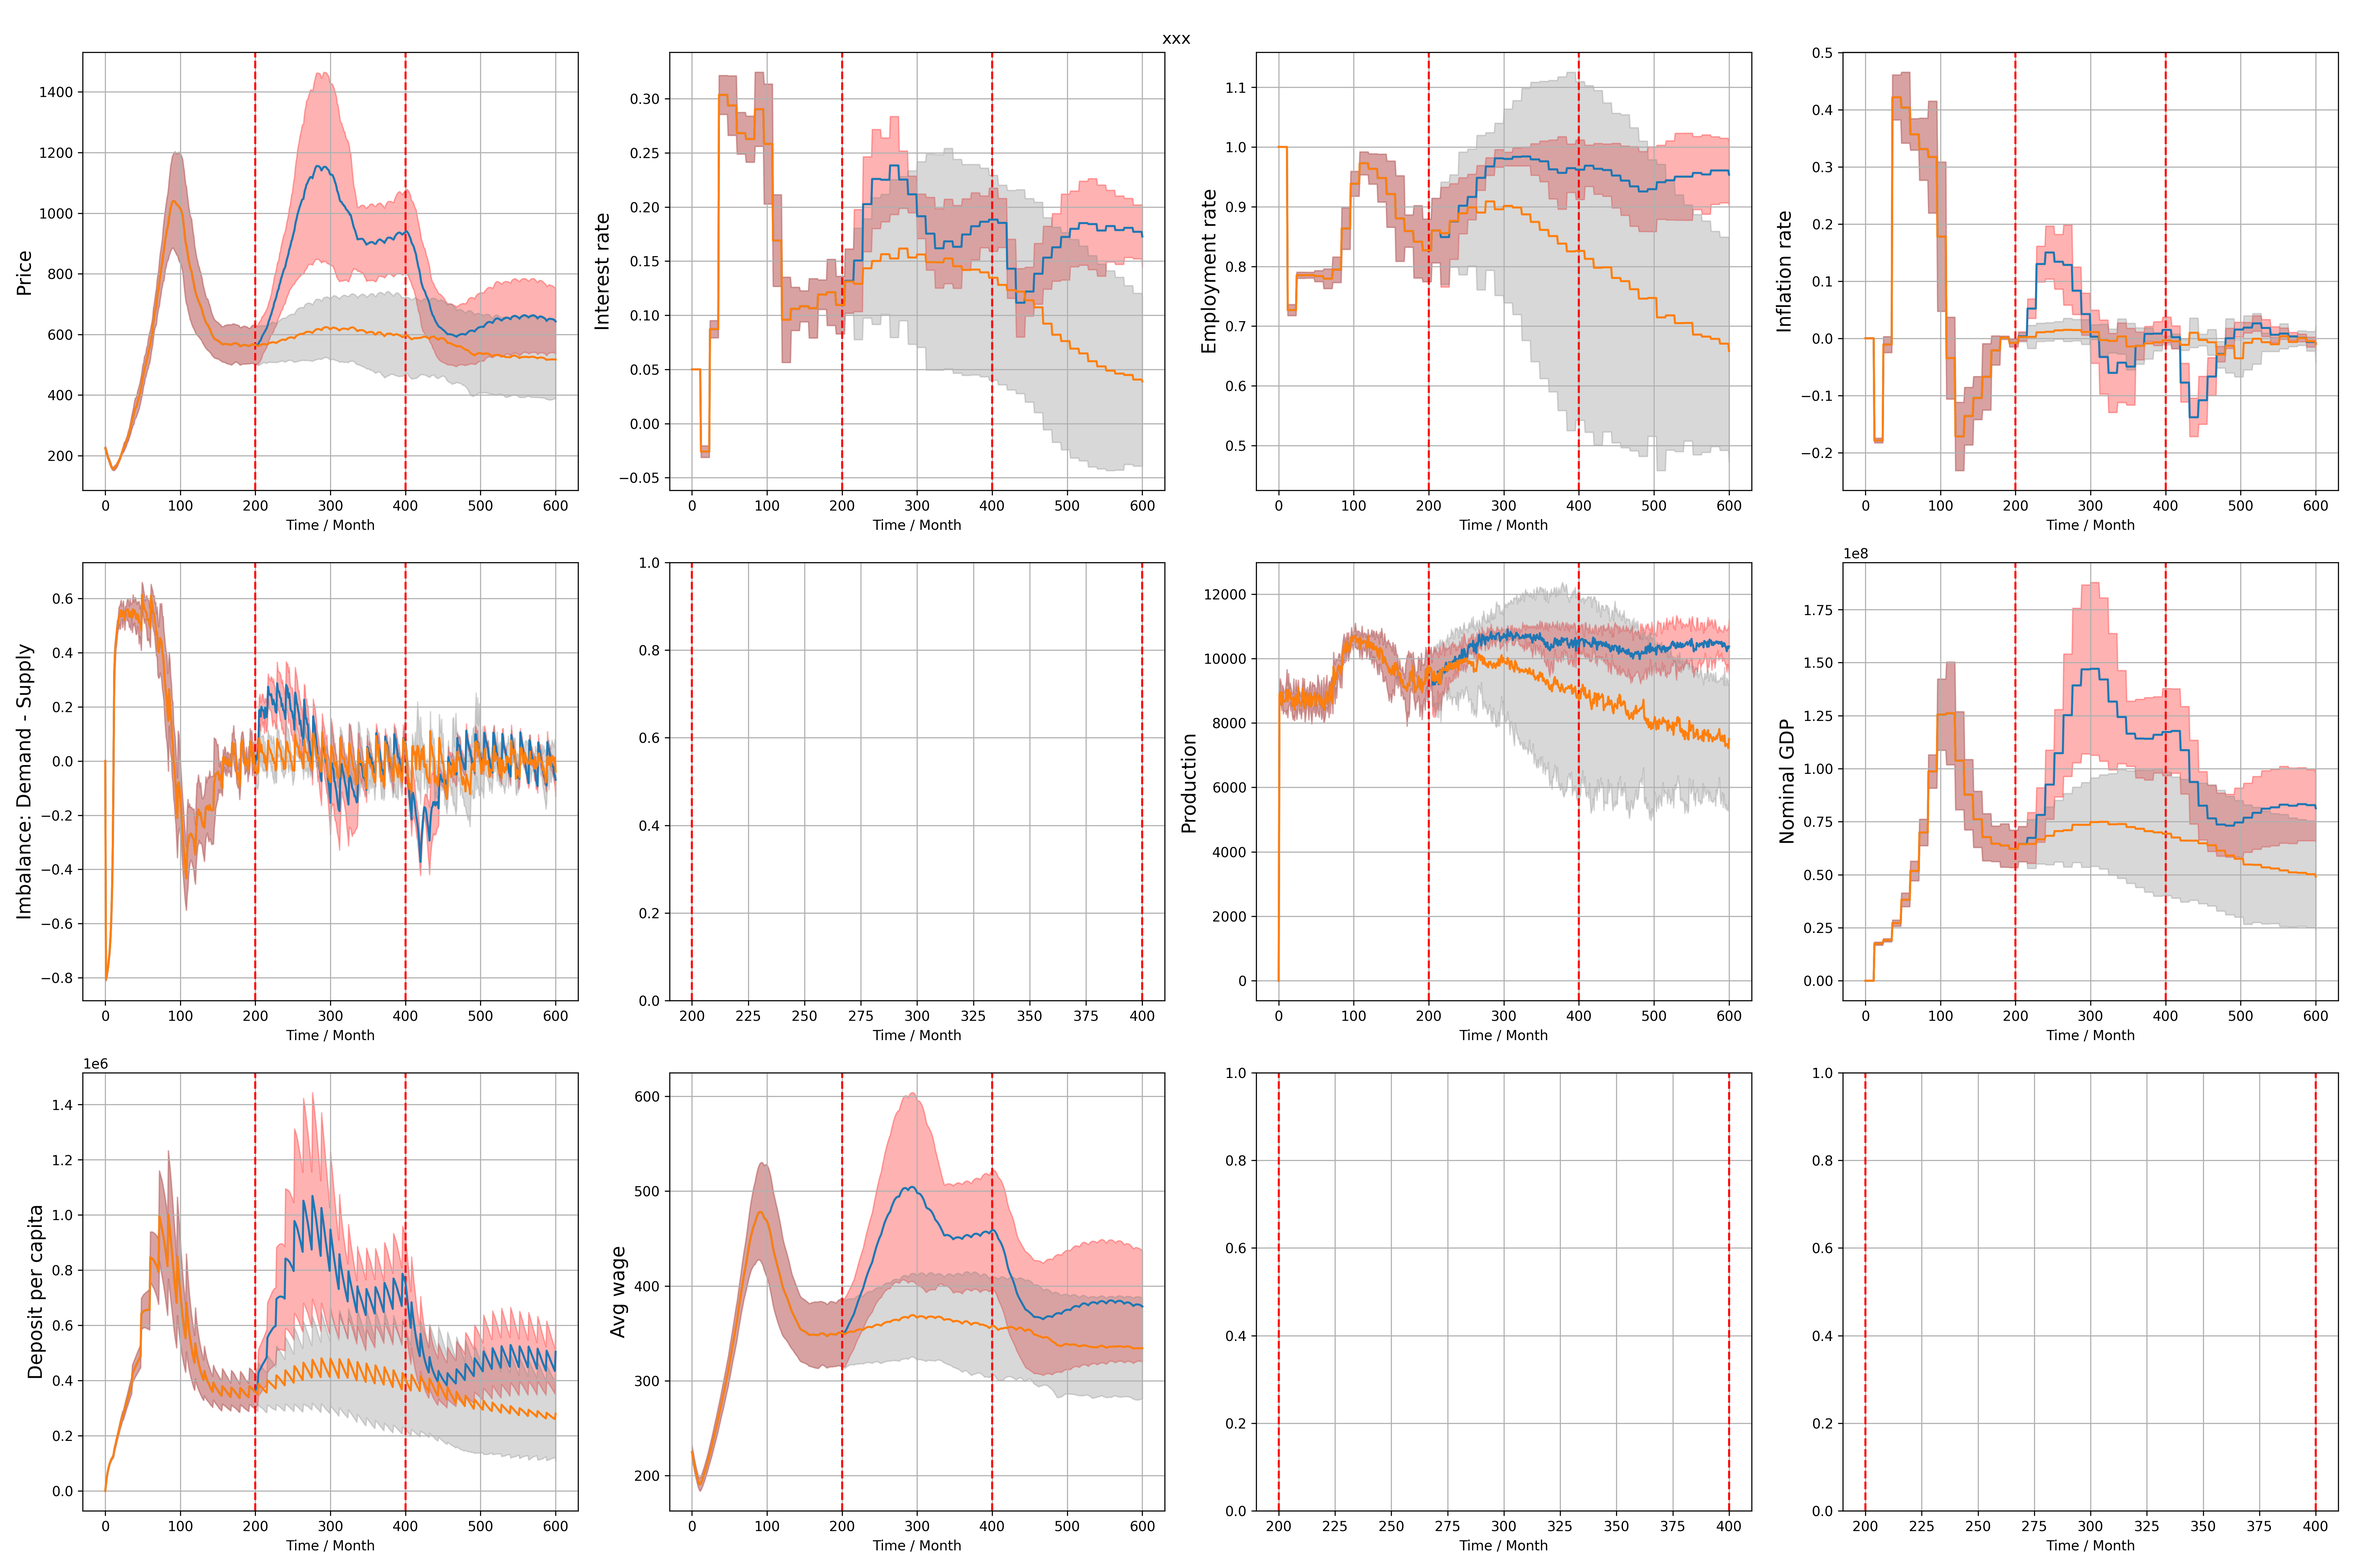
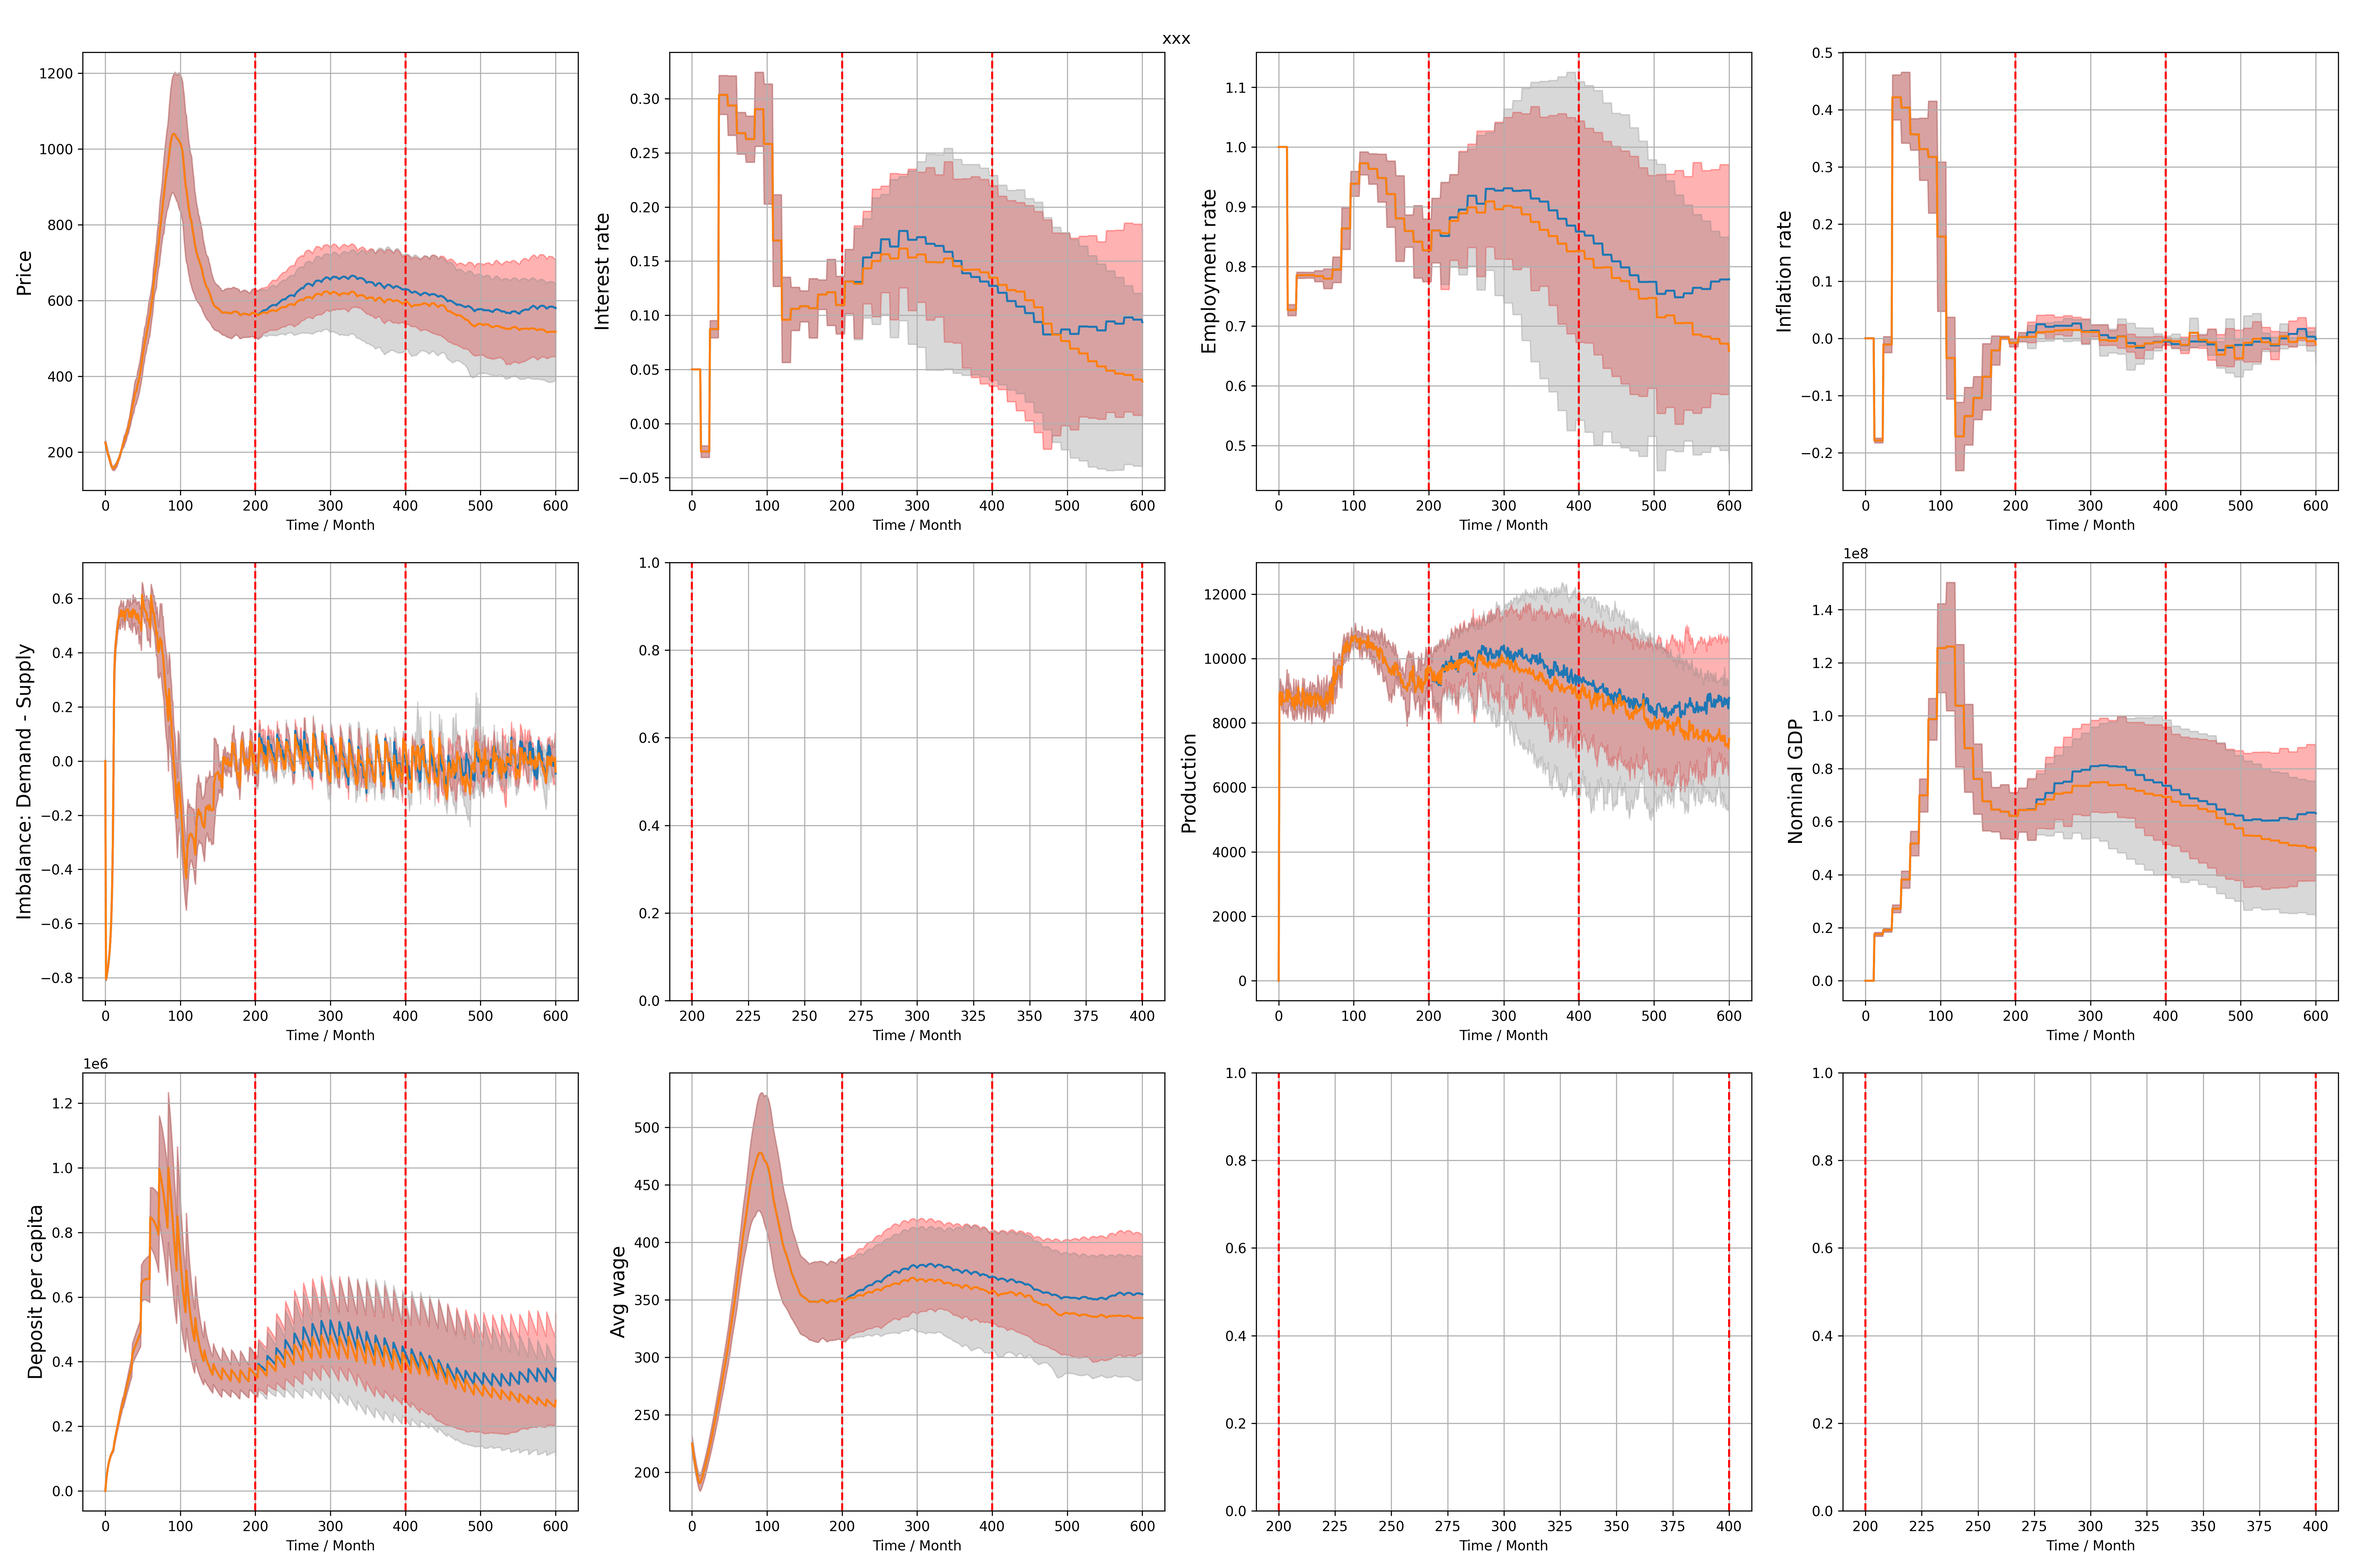
123

diff --git a/main.py b/main.py
@@ -78,13 +78,13 @@ def simulation(config:Configuration, event=False, intervention=False):
         #             work_state.append(a.l)
         
         if event:
-            if t == 200:
+            if t == config.event_start:
                 a_pw = [a.pw for a in agents]
 
-            if t >= 200 and t <= 400:
+            if t >= config.event_start and t <= config.event_end:
                 for a, pw in zip(agents, a_pw):
-                    # a.pw = 0.1 ** (1/400) * a.pw # 在t=900时，就业意愿下降到t=500时的25%
-                    a.pw = (0.2 ** (1/(400-200))) ** (t-200) * pw
+                    # a.pw = 0.1 ** (1/300) * a.pw # 在t=900时，就业意愿下降到t=500时的25%
+                    a.pw = (0.6 ** (1/(config.event_end-config.event_start))) ** (t-config.event_start) * pw
             work_state = [a.work_decision() for a in agents] # work decision
         else:
             work_state = [a.work_decision() for a in agents] # work decision
@@ -101,8 +101,8 @@ def simulation(config:Configuration, event=False, intervention=False):
             # print(t, a.id, w, sum(taxes), w + sum(taxes)/config.num_agents)
             
             ################ 干 预 开 始 ################
-            if t >= 200 and t <= 400 and intervention:
-                B.deposit(a.id, w + sum(taxes)/config.num_agents + 0.02*B.deposits[a.id]) # redistribution
+            if t >= 200 and t <= 600 and intervention:
+                B.deposit(a.id, w + sum(taxes)/config.num_agents + 1000) # 0.04*B.deposits[a.id] redistribution
             else:
                 B.deposit(a.id, w + sum(taxes)/config.num_agents) # redistribution
             ################ 干 预 结 束 ################

diff --git a/utils.py b/utils.py
@@ -75,8 +75,8 @@ def plot_bar(img_name:str, logs:list[dict], logs_compare:list[dict], config:Conf
     for i in range(3):
         for j in range(4):
             axs[i, j].set_xlabel('Time / Month'); axs[i, j].grid()
-            axs[i, j].axvline(x=200, color='r', linestyle='--')
-            axs[i, j].axvline(x=400, color='r', linestyle='--')
+            axs[i, j].axvline(x=config.event_start, color='r', linestyle='--')
+            axs[i, j].axvline(x=config.event_end, color='r', linestyle='--')
             
     
     prices = np.array([[log[key]['price'] for key in log.keys()] for log in logs])

diff --git a/config.py b/config.py
@@ -1,6 +1,12 @@
 from time import time
 class Configuration:
     #####################################
+    ##           干 预 参 数           ##
+    #####################################
+    event_start = 200
+    event_end = 250
+    
+    #####################################
     ##           仿 真 参 数           ##
     #####################################
     seed = int(time()) # 123
